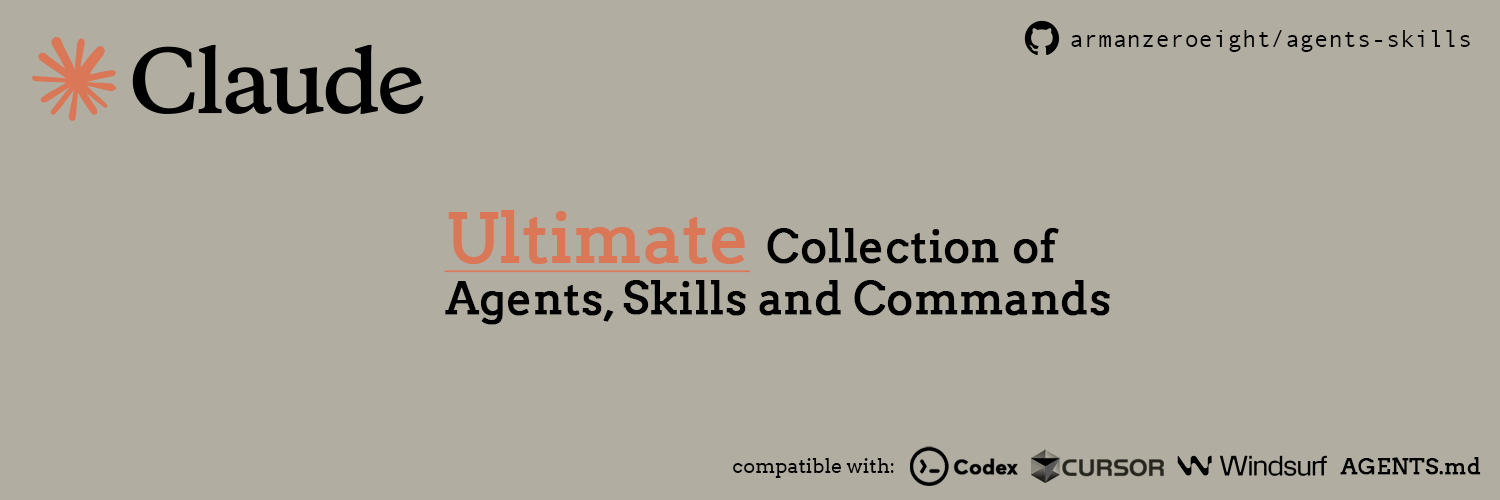
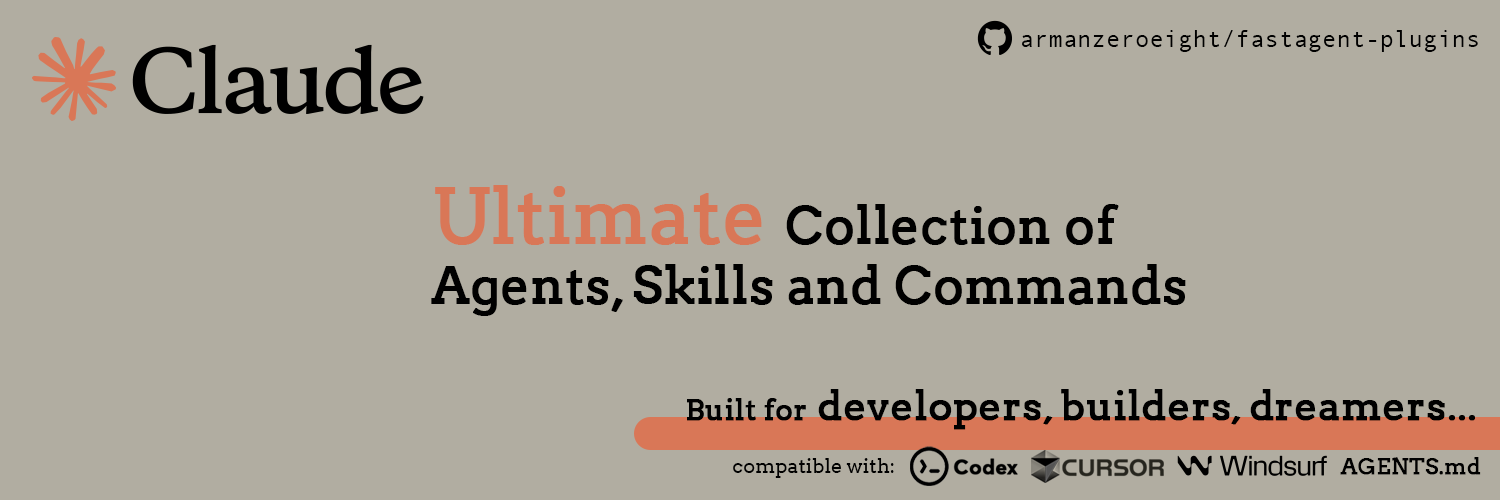
Update Image

Changed region(s): [[0.276, 0.36, 0.7973, 0.66], [0.3987, 0.78, 1.0, 0.9], [0.644, 0.03, 0.9813, 0.12]]

diff --git a/README.md b/README.md
@@ -1,4 +1,6 @@
-# FastAgent Marketplace
+![FastAgent Marketplace](./README.png)
+
+# FastAgent Plugins
 
 **Professional AI Agents & Skills for Claude Code** | Covering Development, DevOps, Cloud, and Beyond
 
